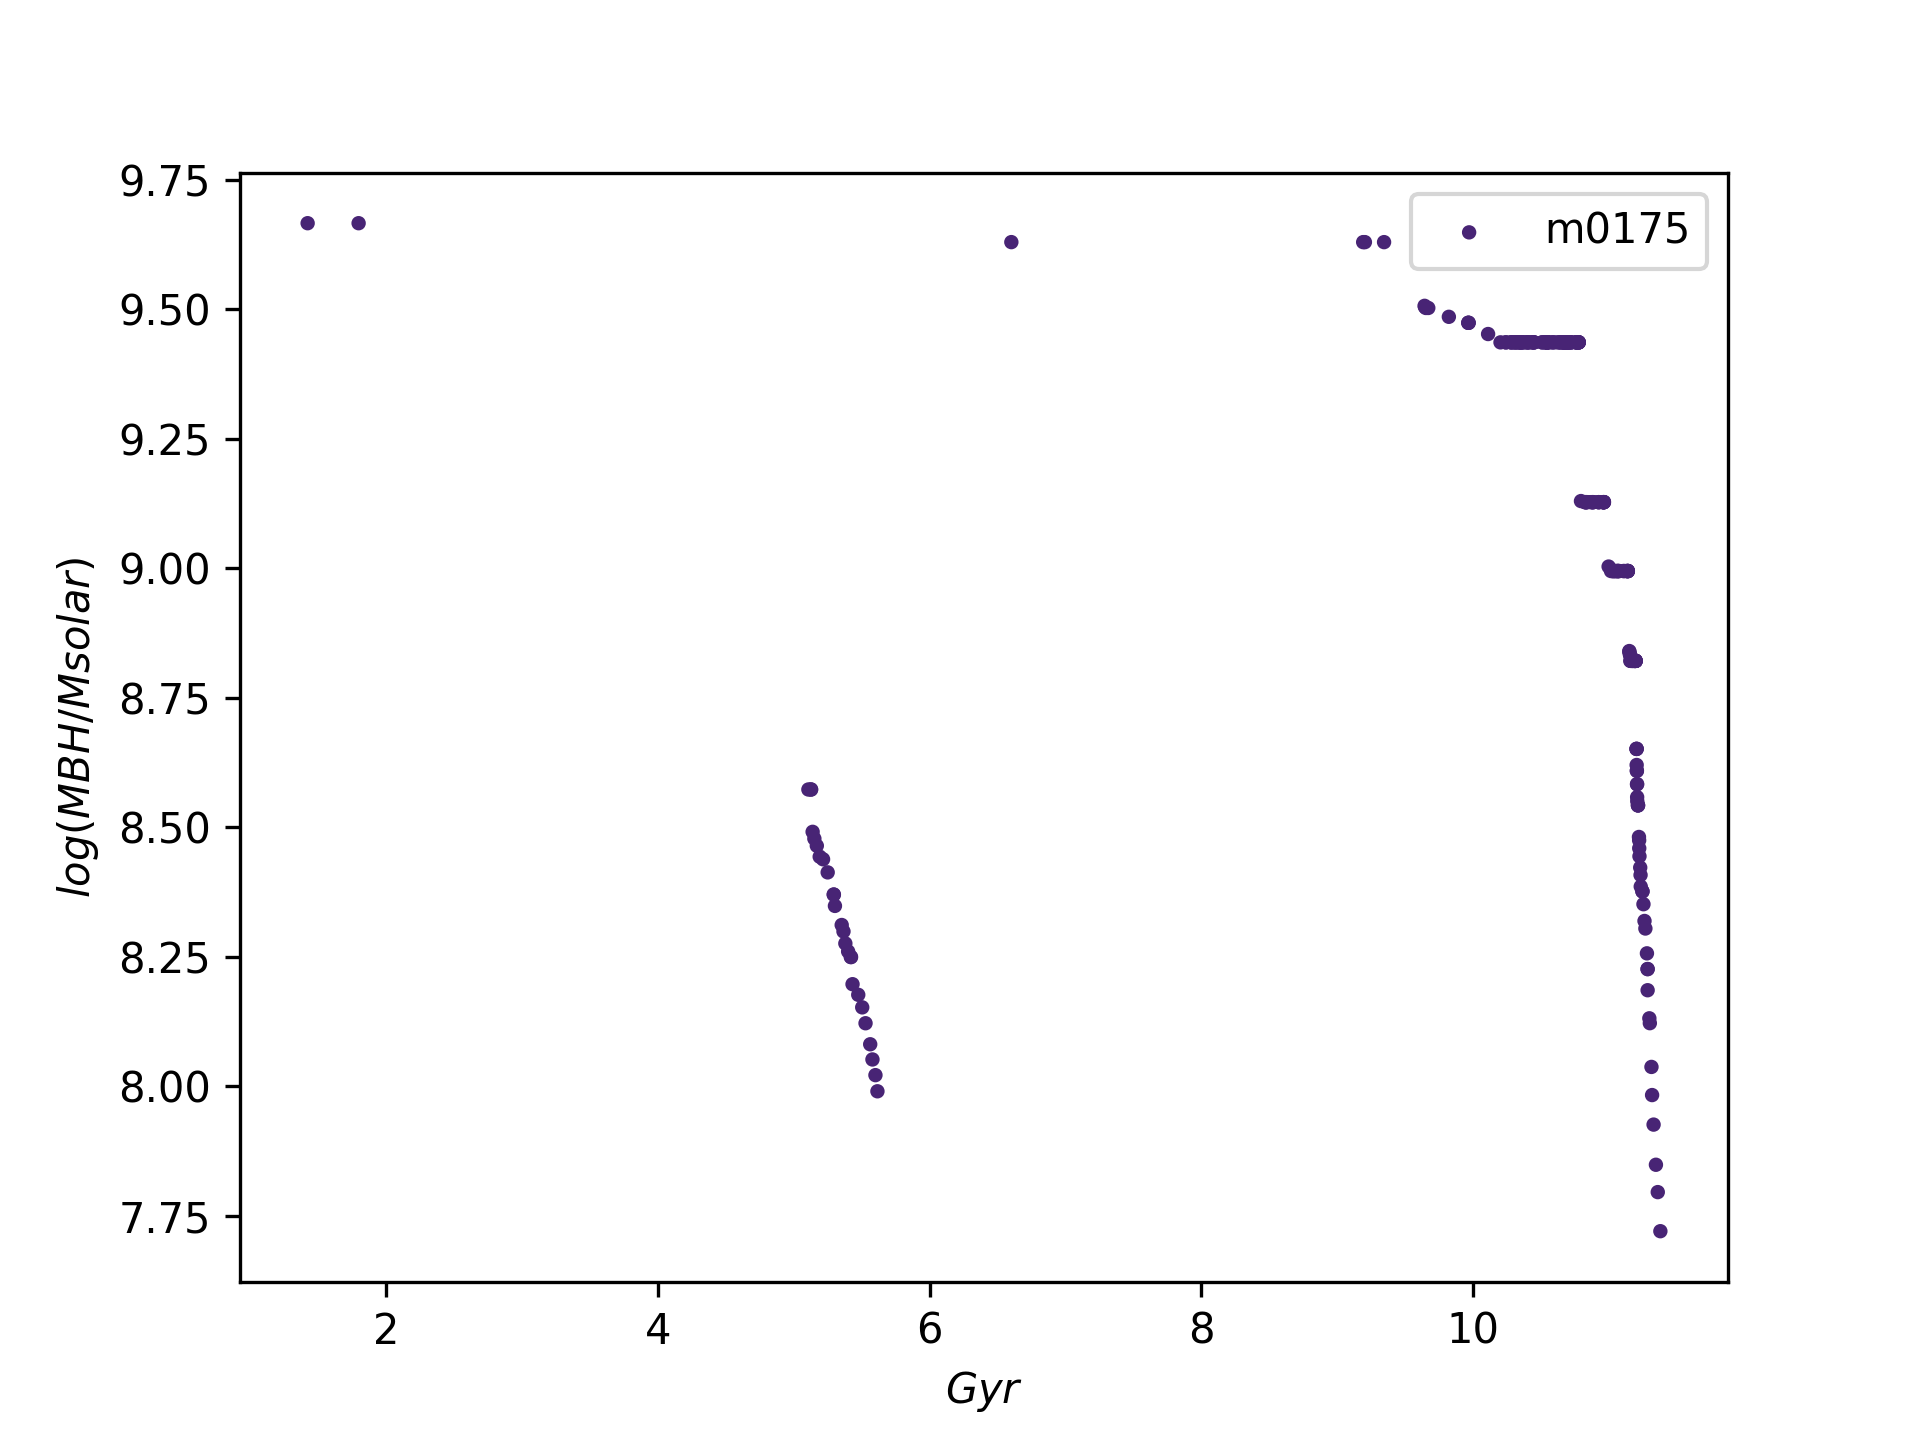
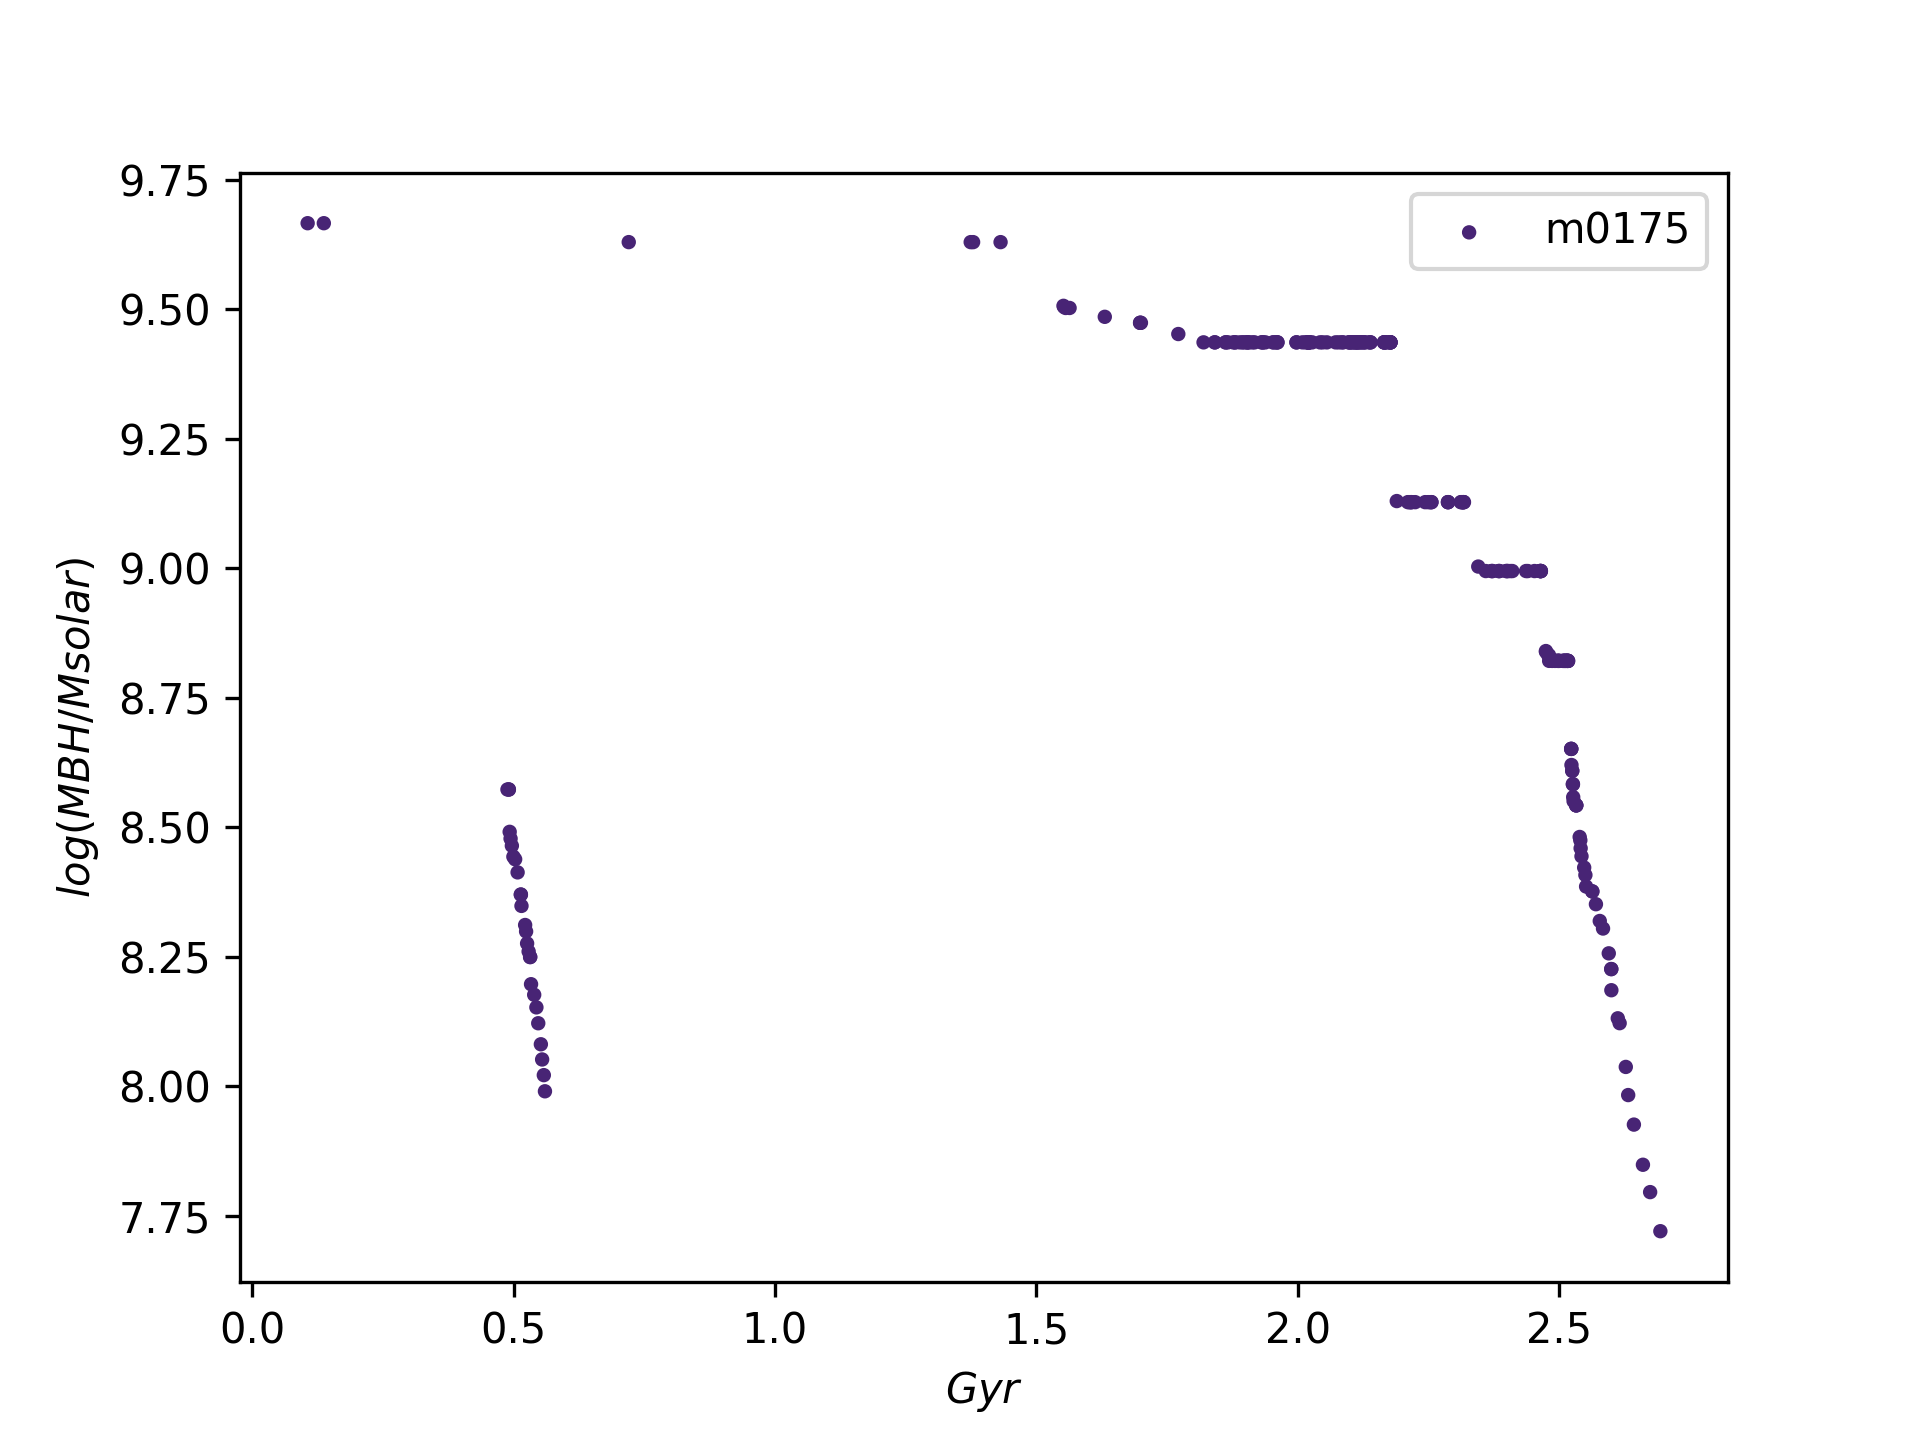
Created a plot for M0175

diff --git a/FeH_AlphaFe.py b/FeH_AlphaFe.py
@@ -1,7 +1,10 @@
+from cProfile import label
 import numpy as np
 import matplotlib.pyplot as plt
 import pandas as pd
 import pylab
+import seaborn as sns
+import matplotlib.cm as cm
 from astropy.cosmology import Planck13
 FEsol=0.0012
 AlFesol=0.0008/0.0012
@@ -58,15 +61,6 @@ for i in range(len(halo_names)):
     time.append(eachht)
 print(time[0][0])   
 
-### For all points together
-x_ax= []
-f= []
-for dat in data:
-    x_ax.append(float(dat['z']))
-    f.append(float(dat['iron_gas'])/float(dat['Mg_gas']))
-y_ax=np.log10(f)
-# print(len(x_ax))
-# print(y_ax.size)
 
 ### Convert Redshift to loockback time 
 lb_time=[]
@@ -105,14 +99,32 @@ ax.set_ylabel('$[Alpha/Fe]$')
 c=[]
 halo=[]
 i =0 
-color = [round(num, 1) for num in time[i]]
-c=np.full(len(time[i]),color)
-str=halo_names[i]
-    #for j in range(len(time[i])):
-        #ax1.plot(j['t'],'b',j[str])
-halo.append(ax.scatter(FeH[i], AlphaFe[i], s=6, c=time[0], vmin=0, vmax=2.7,label=color))
+#color = [round(num*2, 0) for num in time[i]]
+c= []
+p=[]
+for j in time[i]:
+    if j not in c:
+        c.append(j)
+z=np.arange(0,3,0.5)
+print(z)
+#c=np.full(len(time[i]),color)
+#for j in range(len(time[i])):
+    #ax1.plot(j['t'],'b',j[str])
+
+
+for j in z: 
+    f=[]
+    a=[]
+    for k in range(len(time[i])):
+        if (j+0.25)>time[i][k]>(j-0.25):
+            f.append(FeH[i][k])
+            a.append(AlphaFe[i][k])
+    c=np.full(len(f),j)
+    ax.scatter(f,a,s=6,c=c,vmin=0,vmax=2.5,label=j)
+ax.legend(title='z',fontsize='small')            
+#halo.append(ax.scatter(FeH[i], AlphaFe[i], s=6, c=colors))
 #ax.scatter(time, rat, s=6, c=c, vmin=0, vmax=100)
-ax.legend(handles=halo)
+
 
 print(type('t'))
 #plt.show()

diff --git a/separate gal/M0175.py b/separate gal/M0175.py
@@ -75,10 +75,10 @@ c=np.full(len(time[i]),color)
 str=halo_names[i]
 #for j in range(len(time[i])):
  #ax1.plot(j['t'],'b',j[str])
-halo.append(ax.scatter(lb_time[i], mass[i], s=6, c=c, vmin=0, vmax=100,label=halo_names[i]))
+halo.append(ax.scatter(time[i], mass[i], s=6, c=c, vmin=0, vmax=100,label=halo_names[i]))
 #ax.scatter(time, rat, s=6, c=c, vmin=0, vmax=100)
 ax.legend(handles=halo)
 
 print(type('t'))
 #plt.show()
-plt.savefig('M0175_BHmass.png', dpi=300)
+plt.savefig(WD+'M0175_BHmass.png', dpi=300)
